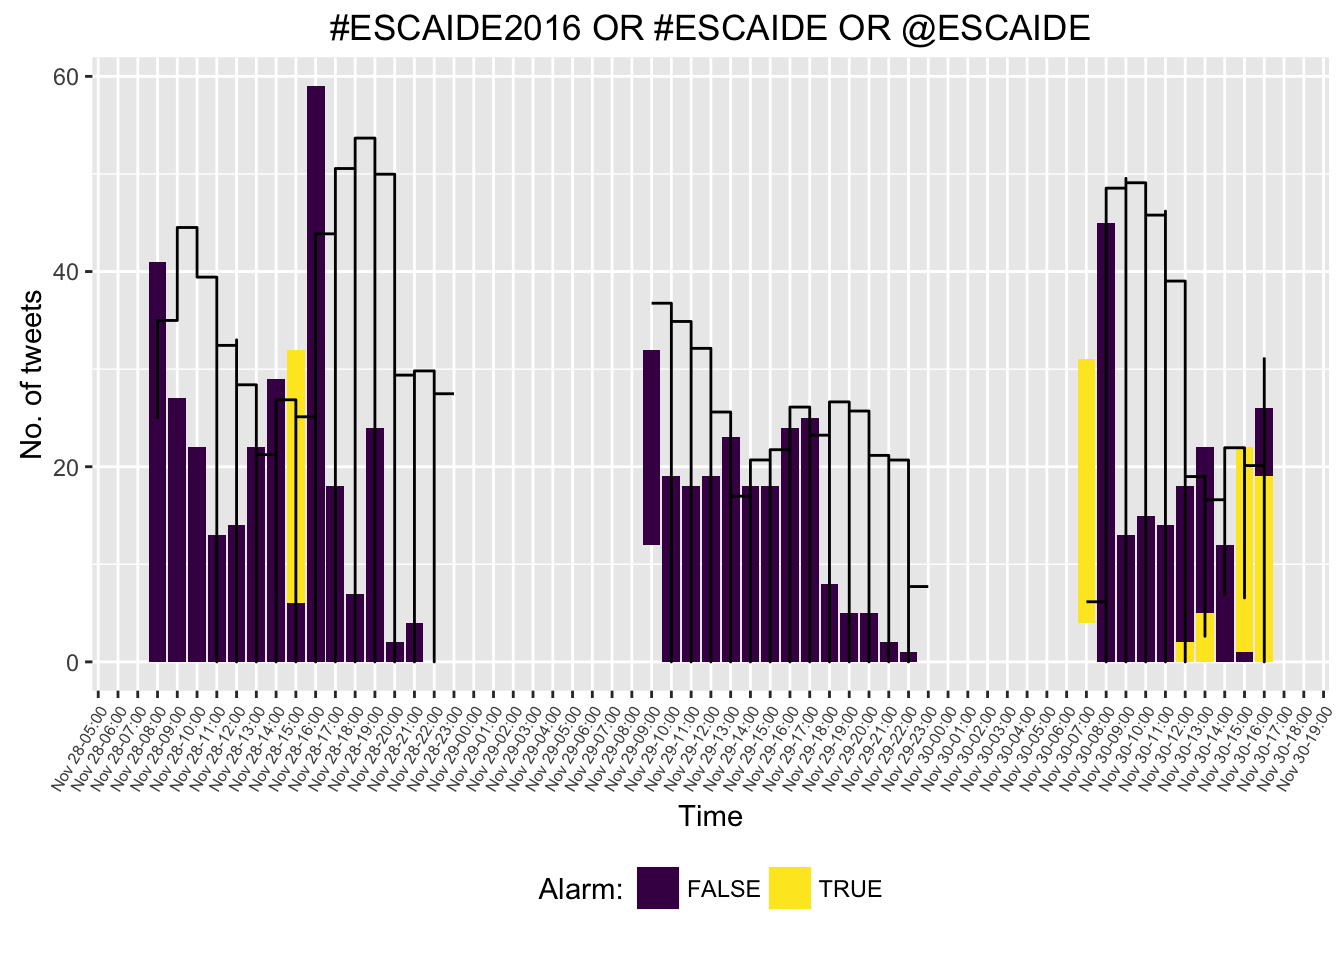
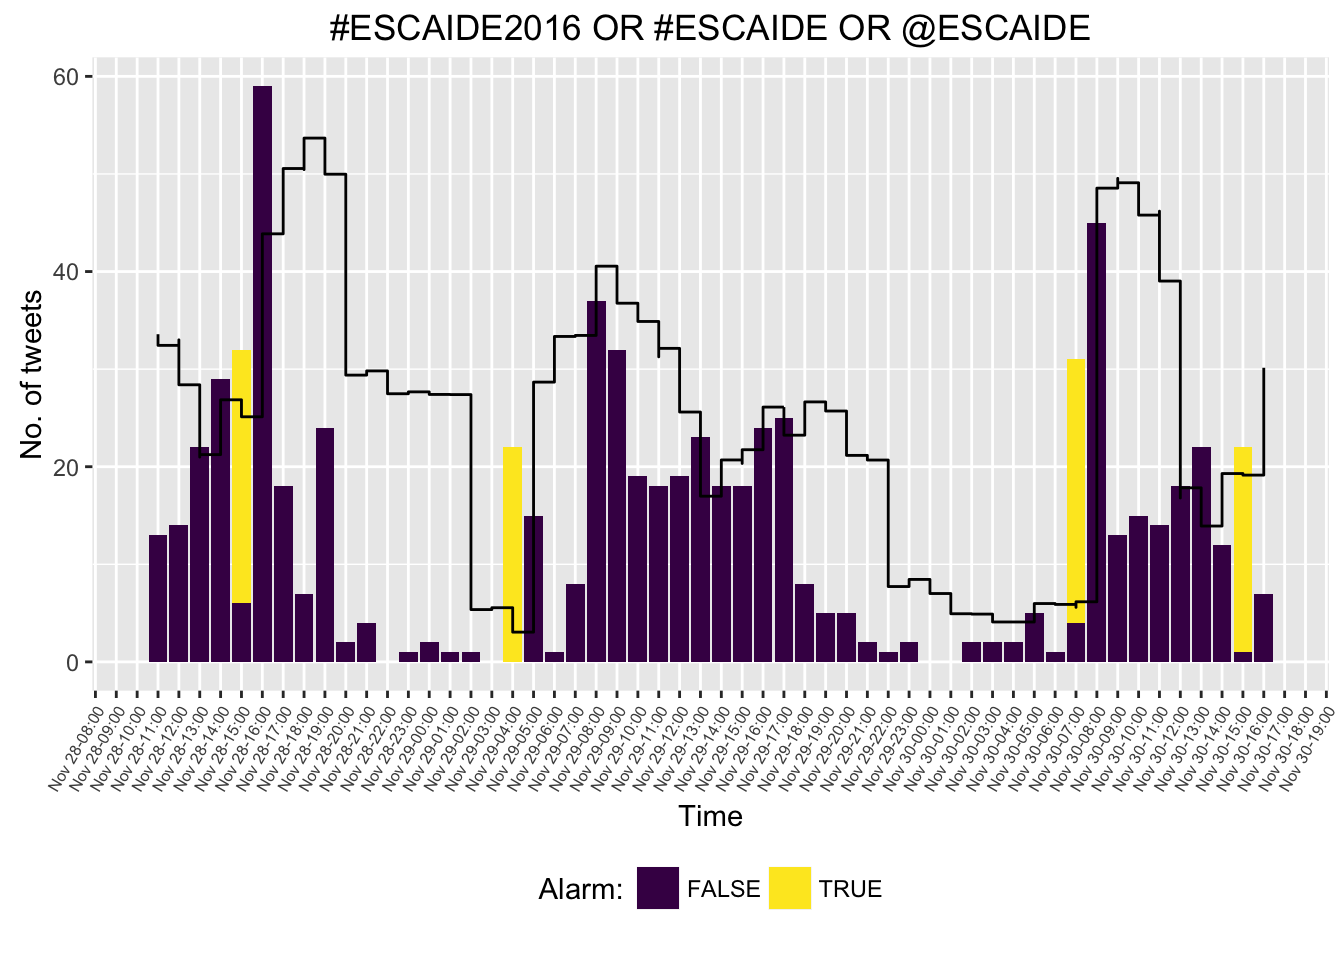
updated tweet data and fixed na values in the output breaking the surveillance

Changed region(s): [[0.0312, 0.0625, 1.0, 0.8438]]

diff --git a/docs/articles/EARSC_Belgium.html b/docs/articles/EARSC_Belgium.html
@@ -69,6 +69,122 @@
 <h1 class="hasAnchor"><html><body><a href="#first-step-getting-the-data-into-r" class="anchor"> </a></body></html>First step: getting the data into R</h1>
 <p>For this, ask your favourite data manager to set up a data connection, or follow steps similar to the following, where we use data from a csv file that we download from <a href="https://epistat.wiv-isp.be/data/public_cases.csv">this page</a> and that we then save as <code>.RData</code>. In this case we download the data behind the excellent Belgium <a href="https://epistat.wiv-isp.be/">epistat website</a>.</p>
 <div class="sourceCode"><pre class="sourceCode r"><code class="sourceCode r">belgium &lt;-<span class="st"> </span>readr::<span class="kw">read_csv</span>(<span class="st">"https://epistat.wiv-isp.be/data/public_cases.csv"</span>)</code></pre></div>
+<pre><code>## 
+|==========                                                                     |  13%           
+|===========                                                                    |  13%           
+|===========                                                                    |  14%           
+|============                                                                   |  15%           
+|============                                                                   |  16%    1 MB
+|=============                                                                  |  16%    1 MB
+|==============                                                                 |  17%    1 MB
+|==============                                                                 |  18%    1 MB
+|===============                                                                |  19%    1 MB
+|===============                                                                |  19%    1 MB
+|================                                                               |  20%    1 MB
+|=================                                                              |  21%    1 MB
+|=================                                                              |  22%    1 MB
+|==================                                                             |  23%    1 MB
+|===================                                                            |  23%    1 MB
+|===================                                                            |  24%    1 MB
+|====================                                                           |  25%    1 MB
+|====================                                                           |  26%    1 MB
+|=====================                                                          |  26%    1 MB
+|======================                                                         |  27%    1 MB
+|======================                                                         |  28%    1 MB
+|=======================                                                        |  29%    1 MB
+|=======================                                                        |  29%    1 MB
+|========================                                                       |  30%    1 MB
+|=========================                                                      |  31%    2 MB
+|=========================                                                      |  32%    2 MB
+|==========================                                                     |  33%    2 MB
+|===========================                                                    |  33%    2 MB
+|===========================                                                    |  34%    2 MB
+|============================                                                   |  35%    2 MB
+|============================                                                   |  36%    2 MB
+|=============================                                                  |  36%    2 MB
+|==============================                                                 |  37%    2 MB
+|==============================                                                 |  38%    2 MB
+|===============================                                                |  39%    2 MB
+|===============================                                                |  39%    2 MB
+|================================                                               |  40%    2 MB
+|=================================                                              |  41%    2 MB
+|=================================                                              |  42%    2 MB
+|==================================                                             |  43%    2 MB
+|===================================                                            |  43%    2 MB
+|===================================                                            |  44%    2 MB
+|====================================                                           |  45%    2 MB
+|====================================                                           |  46%    2 MB
+|=====================================                                          |  46%    3 MB
+|======================================                                         |  47%    3 MB
+|======================================                                         |  48%    3 MB
+|=======================================                                        |  49%    3 MB
+|========================================                                       |  50%    3 MB
+|========================================                                       |  50%    3 MB
+|=========================================                                      |  51%    3 MB
+|=========================================                                      |  52%    3 MB
+|==========================================                                     |  53%    3 MB
+|===========================================                                    |  53%    3 MB
+|===========================================                                    |  54%    3 MB
+|============================================                                   |  55%    3 MB
+|============================================                                   |  56%    3 MB
+|=============================================                                  |  56%    3 MB
+|==============================================                                 |  57%    3 MB
+|==============================================                                 |  58%    3 MB
+|===============================================                                |  59%    3 MB
+|================================================                               |  60%    3 MB
+|================================================                               |  60%    3 MB
+|=================================================                              |  61%    3 MB
+|=================================================                              |  62%    3 MB
+|==================================================                             |  63%    4 MB
+|===================================================                            |  63%    4 MB
+|===================================================                            |  64%    4 MB
+|====================================================                           |  65%    4 MB
+|====================================================                           |  66%    4 MB
+|=====================================================                          |  66%    4 MB
+|======================================================                         |  67%    4 MB
+|======================================================                         |  68%    4 MB
+|=======================================================                        |  69%    4 MB
+|========================================================                       |  70%    4 MB
+|========================================================                       |  70%    4 MB
+|=========================================================                      |  71%    4 MB
+|=========================================================                      |  72%    4 MB
+|==========================================================                     |  73%    4 MB
+|===========================================================                    |  73%    4 MB
+|===========================================================                    |  74%    4 MB
+|============================================================                   |  75%    4 MB
+|============================================================                   |  76%    4 MB
+|=============================================================                  |  76%    4 MB
+|==============================================================                 |  77%    4 MB
+|==============================================================                 |  78%    5 MB
+|===============================================================                |  79%    5 MB
+|================================================================               |  80%    5 MB
+|================================================================               |  80%    5 MB
+|=================================================================              |  81%    5 MB
+|=================================================================              |  82%    5 MB
+|==================================================================             |  83%    5 MB
+|===================================================================            |  83%    5 MB
+|===================================================================            |  84%    5 MB
+|====================================================================           |  85%    5 MB
+|=====================================================================          |  86%    5 MB
+|=====================================================================          |  87%    5 MB
+|======================================================================         |  87%    5 MB
+|======================================================================         |  88%    5 MB
+|=======================================================================        |  89%    5 MB
+|=======================================================================        |  89%    5 MB
+|========================================================================       |  90%    5 MB
+|=========================================================================      |  91%    5 MB
+|=========================================================================      |  92%    5 MB
+|==========================================================================     |  92%    5 MB
+|==========================================================================     |  93%    5 MB
+|===========================================================================    |  94%    6 MB
+|============================================================================   |  95%    6 MB
+|============================================================================   |  95%    6 MB
+|=============================================================================  |  96%    6 MB
+|=============================================================================  |  97%    6 MB
+|============================================================================== |  97%    6 MB
+|============================================================================== |  98%    6 MB
+|===============================================================================|  99%    6 MB
+|================================================================================| 100%    6 MB</code></pre>
 <p>How does this data look like? Let us have a look at the head of the <code>data.frame</code>.</p>
 <div class="sourceCode"><pre class="sourceCode r"><code class="sourceCode r">knitr::<span class="kw">kable</span>(<span class="kw">head</span>(belgium))</code></pre></div>
 <table class="table"><thead><tr class="header"><th align="right">Age</th>

diff --git a/docs/articles/twitter.html b/docs/articles/twitter.html
@@ -117,10 +117,15 @@ allTimes &lt;-<span class="st"> </span><span class="kw">expand.grid</span>(<span
 ts2 &lt;-<span class="st"> </span>allTimes %&gt;%<span class="st"> </span><span class="kw">left_join</span>(ts, <span class="dt">by=</span><span class="st">"time"</span>) %&gt;%<span class="st"> </span><span class="kw">group_by</span>(time) %&gt;%
 <span class="st">  </span><span class="kw">filter</span>(time &gt;<span class="st"> "2016-11-28 08:00:00 CET"</span> &amp;<span class="st"> </span>(time &lt;<span class="st"> "2016-11-30 17:30:00 CET"</span>)) %&gt;%<span class="st"> </span><span class="kw">select</span>(-n.x,-is_retweet_of_us,-n.y)
 
-ts2 &lt;-<span class="st"> </span><span class="kw">rbind</span>(ts2 %&gt;%<span class="st"> </span><span class="kw">rename</span>(<span class="dt">n=</span>n_retweets) %&gt;%<span class="st"> </span><span class="kw">select</span>(-n_noretweets) %&gt;%<span class="st"> </span><span class="kw">mutate</span>(<span class="dt">group=</span><span class="st">"retweet"</span>),
+na2zero &lt;-<span class="st"> </span>function(x) {x[<span class="kw">is.na</span>(x)] &lt;-<span class="st"> </span><span class="dv">0</span> ; <span class="kw">return</span>(x)}
+
+ts2 &lt;-<span class="st"> </span>ts2 %&gt;%<span class="st"> </span><span class="kw">mutate</span>(<span class="dt">n_retweets =</span> <span class="kw">na2zero</span>(n_retweets),
+                      <span class="dt">n_noretweets =</span> <span class="kw">na2zero</span>(n_noretweets))
+
+ts3 &lt;-<span class="st"> </span><span class="kw">rbind</span>(ts2 %&gt;%<span class="st"> </span><span class="kw">rename</span>(<span class="dt">n=</span>n_retweets) %&gt;%<span class="st"> </span><span class="kw">select</span>(-n_noretweets) %&gt;%<span class="st"> </span><span class="kw">mutate</span>(<span class="dt">group=</span><span class="st">"retweet"</span>),
              ts2 %&gt;%<span class="st"> </span><span class="kw">rename</span>(<span class="dt">n=</span>n_noretweets) %&gt;%<span class="st"> </span><span class="kw">select</span>(-n_retweets) %&gt;%<span class="st"> </span><span class="kw">mutate</span>(<span class="dt">group=</span><span class="st">"no_retweet"</span>))
-ts2 &lt;-<span class="st"> </span>ts2 %&gt;%<span class="st"> </span><span class="kw">mutate</span>(<span class="dt">group =</span> <span class="kw">factor</span>(group))</code></pre></div>
-<div class="sourceCode"><pre class="sourceCode r"><code class="sourceCode r">p &lt;-<span class="st"> </span><span class="kw">ggplot</span>(ts2) +
+ts3 &lt;-<span class="st"> </span>ts3 %&gt;%<span class="st"> </span><span class="kw">mutate</span>(<span class="dt">group =</span> <span class="kw">factor</span>(group))</code></pre></div>
+<div class="sourceCode"><pre class="sourceCode r"><code class="sourceCode r">p &lt;-<span class="st"> </span><span class="kw">ggplot</span>(ts3) +
 <span class="st">  </span><span class="kw">geom_bar</span>(<span class="kw">aes</span>(<span class="dt">x=</span>time, <span class="dt">y=</span>n, <span class="dt">fill=</span>group), <span class="dt">stat=</span><span class="st">"identity"</span>,<span class="dt">alpha=</span>.<span class="dv">8</span>) +
 <span class="st">  </span><span class="kw">theme</span>(<span class="dt">axis.text.x=</span><span class="kw">element_text</span>(<span class="dt">angle=</span><span class="dv">90</span>, <span class="dt">hjust=</span><span class="dv">1</span>)) +
 <span class="st">  </span><span class="kw">ylab</span>(<span class="st">"No. of tweets"</span>) +
@@ -129,7 +134,6 @@ ts2 &lt;-<span class="st"> </span>ts2 %&gt;%<span class="st"> </span><span class
 <span class="st">  </span><span class="kw">theme</span>(<span class="dt">axis.text.x =</span> <span class="kw">element_text</span>(<span class="dt">angle =</span> <span class="dv">60</span>, <span class="dt">size =</span> <span class="dv">6</span>)) +
 <span class="st">  </span><span class="kw">scale_fill_discrete</span>(<span class="dt">name=</span><span class="st">"Tweet Type"</span>)
 p</code></pre></div>
-<pre><code>## Warning: Removed 12 rows containing missing values (position_stack).</code></pre>
 <p><img src="twitter_files/figure-html/unnamed-chunk-12-1.png" width="672" style="display: block; margin: auto;"></p>
 <p>Now we overlay the conference program</p>
 <div class="sourceCode"><pre class="sourceCode r"><code class="sourceCode r">conference_program_slots &lt;-<span class="st"> </span>tibble::<span class="kw">tribble</span>(
@@ -156,7 +160,6 @@ p</code></pre></div>
             <span class="kw">aes</span>(<span class="dt">xmin =</span> from, <span class="dt">xmax =</span> to, <span class="dt">ymin =</span> <span class="dv">0</span>, <span class="dt">ymax =</span> <span class="kw">max</span>(ts$n), <span class="dt">fill =</span> slot_type), <span class="dt">alpha =</span> <span class="fl">0.4</span>) +
 <span class="st">  </span><span class="kw">theme</span>(<span class="dt">legend.position =</span> <span class="st">"bottom"</span>) +
 <span class="st">  </span>viridis::<span class="kw">scale_fill_viridis</span>(<span class="dt">discrete =</span> <span class="ot">TRUE</span>, <span class="dt">name =</span> <span class="st">"Session Type:"</span>)</code></pre></div>
-<pre><code>## Warning: Removed 12 rows containing missing values (position_stack).</code></pre>
 <p><img src="twitter_files/figure-html/unnamed-chunk-14-1.png" width="672" style="display: block; margin: auto;"></p>
 </div>
 </div>
@@ -165,7 +168,7 @@ p</code></pre></div>
 <p>We shall use the EARS C method for performing outbreak detection.</p>
 <div class="sourceCode"><pre class="sourceCode r"><code class="sourceCode r"><span class="kw">library</span>(surveillance)
 baseline &lt;-<span class="st"> </span><span class="dv">7</span>
-tweet_sts &lt;-<span class="st"> </span>surveillance::<span class="kw">sts</span>(<span class="dt">observed =</span> ts2$n, <span class="co"># weekly number of cases</span>
+tweet_sts &lt;-<span class="st"> </span>surveillance::<span class="kw">sts</span>(<span class="dt">observed =</span> ts2$n_retweets +<span class="st"> </span>ts2$n_noretweets, <span class="co"># weekly number of cases</span>
                                <span class="dt">epoch =</span> <span class="kw">as.numeric</span>(ts2$time))
 
 monitored_tweets &lt;-<span class="st"> </span><span class="kw">earsC</span>(tweet_sts, <span class="dt">control =</span> <span class="kw">list</span>(<span class="dt">baseline =</span> baseline))
@@ -184,7 +187,6 @@ monitored_tweets_df &lt;-<span class="st"> </span><span class="kw">mutate</span>
 <span class="st">  </span><span class="kw">xlab</span>(<span class="st">"Time"</span>) +<span class="st"> </span><span class="kw">ggtitle</span>(the_query) +
 <span class="st">  </span><span class="kw">scale_x_datetime</span>(<span class="dt">date_minor_breaks=</span><span class="st">"1 hour"</span>,<span class="dt">date_breaks=</span><span class="st">"1 hour"</span>,<span class="dt">date_labels=</span><span class="st">"Nov %d-%H:00"</span>) +
 <span class="st">  </span><span class="kw">theme</span>(<span class="dt">axis.text.x =</span> <span class="kw">element_text</span>(<span class="dt">angle =</span> <span class="dv">60</span>, <span class="dt">size =</span> <span class="dv">6</span>))</code></pre></div>
-<pre><code>## Warning: Removed 12 rows containing missing values (position_stack).</code></pre>
 <p><img src="twitter_files/figure-html/ears-1.png" width="672" style="display: block; margin: auto;"></p>
 <div id="instant-citizen-science-experiment" class="section level3">
 <h3 class="hasAnchor"><html><body><a href="#instant-citizen-science-experiment" class="anchor"> </a></body></html>Instant citizen science experiment</h3>
